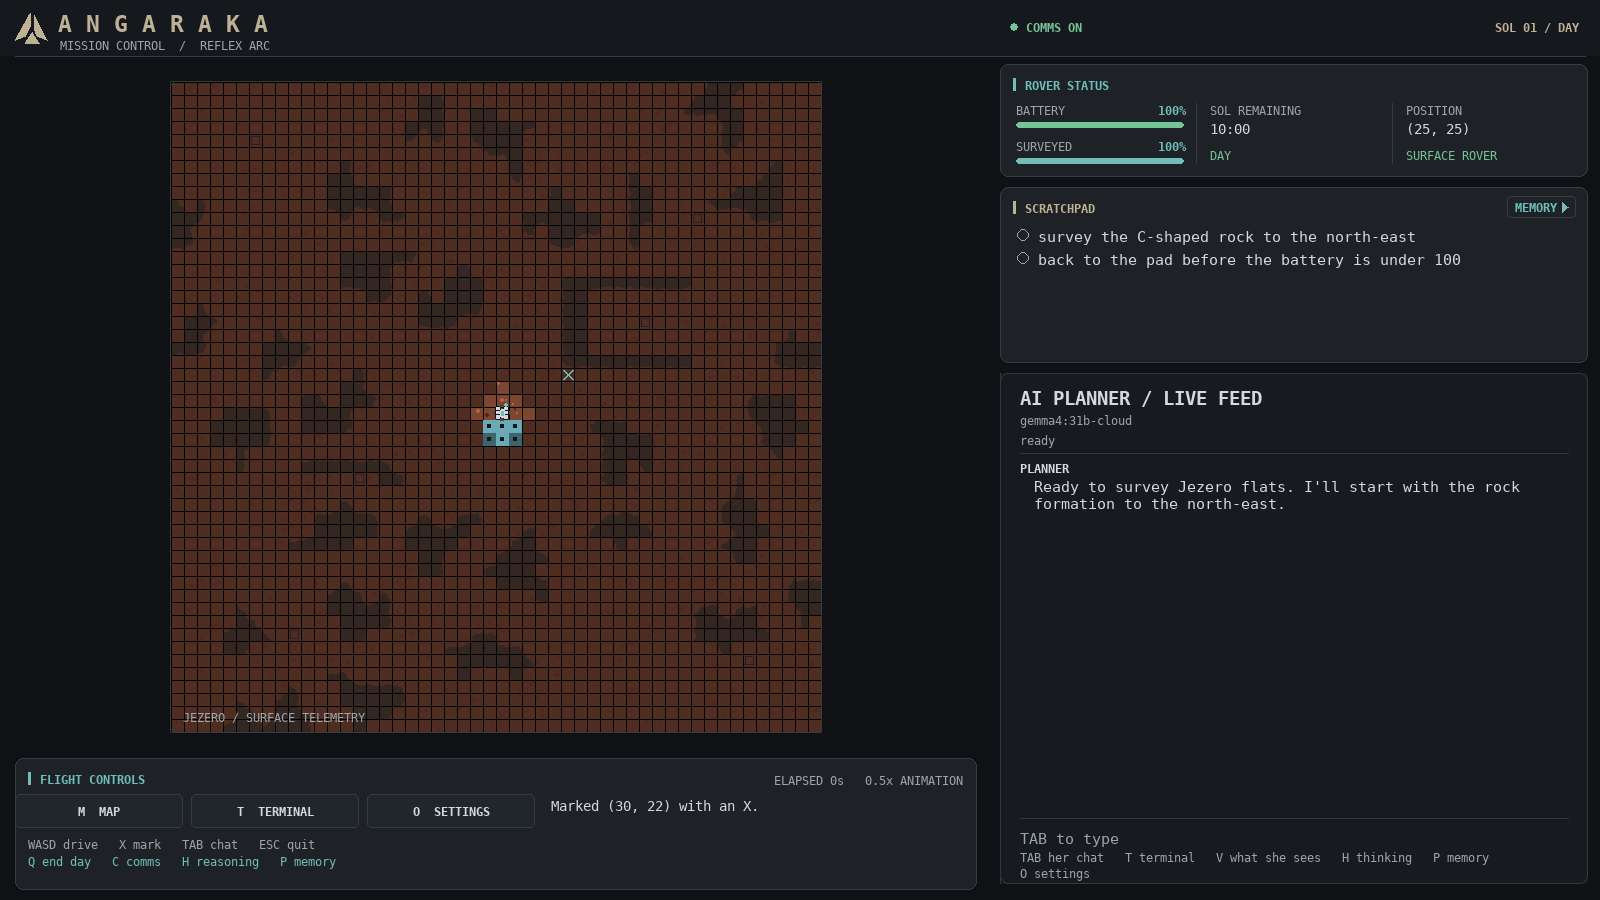
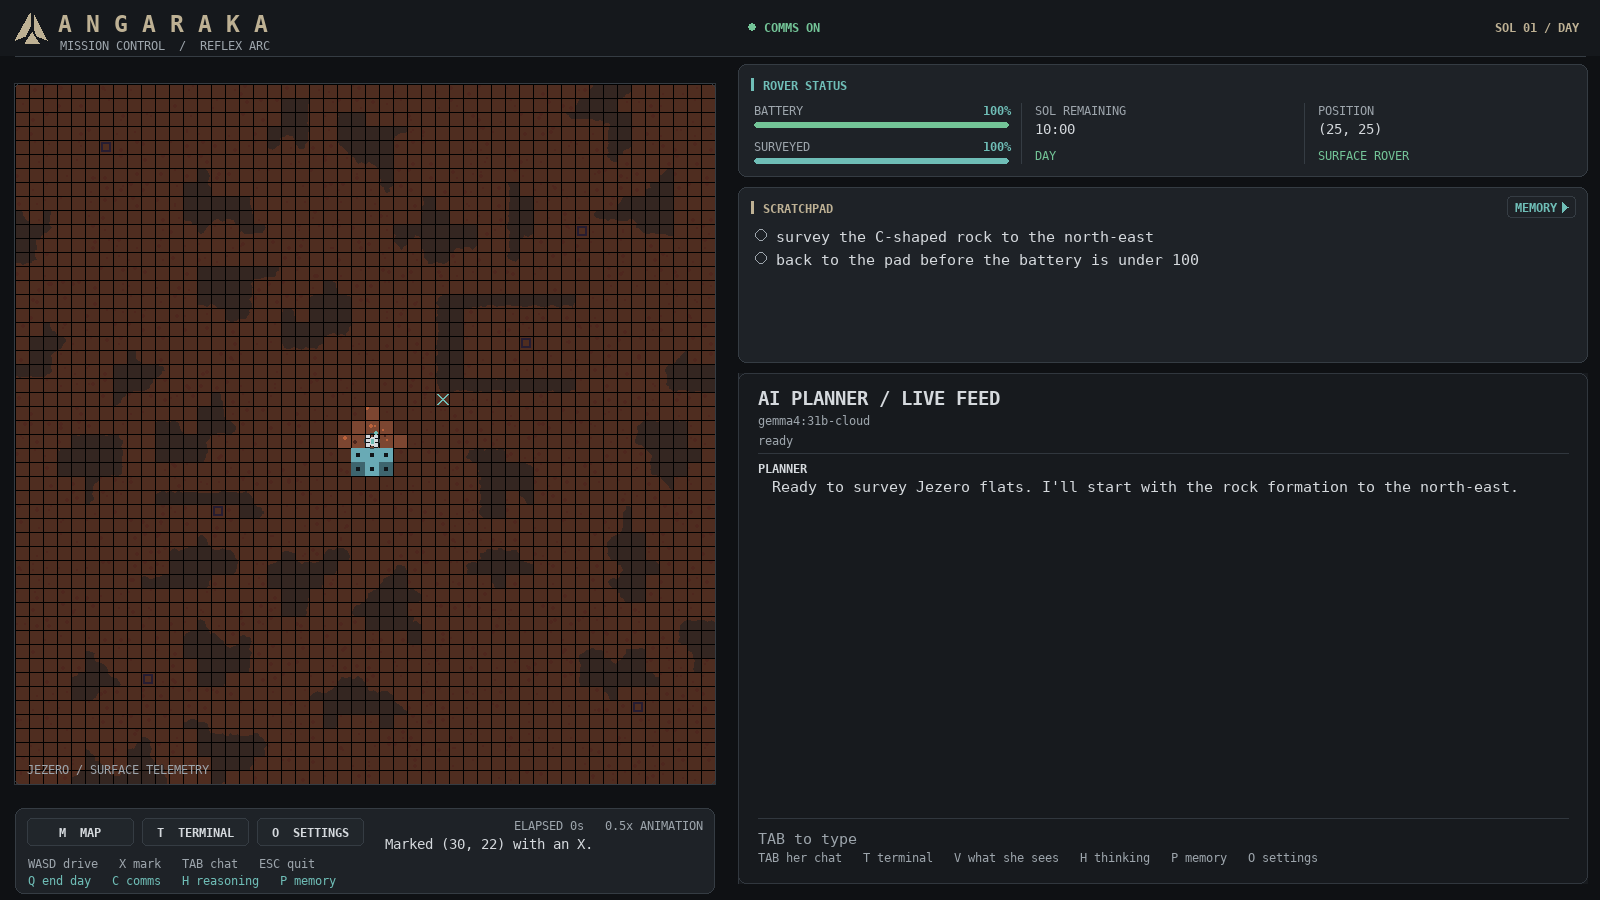
11: the map takes only its own width, and the strip under it is compact
The tile is set by the window's height, so on a wide screen the map sat centred in an
area far wider than itself. The arena now takes the map's width and margins, and the
pane gets the rest: at 1853x944, 1073 px against 707. The strip under the map drops
its title row and lays out buttons and keys on the left, the stopwatch and messages on
the right, in 96 px instead of 150. That buys the map a 15 px tile instead of 14. The
keys get the 312 px they need, so they are never cut at laptop width.

diff --git a/prototype11/game/dashboard.py b/prototype11/game/dashboard.py
@@ -122,40 +122,49 @@ def map_overlay(surf, w, f, view, ox, oy, reel):
     pygame.draw.rect(surf, BORDER, view.inflate(2,2), 1, border_radius=6)
 
 
+def controls_width(width):
+    """The bottom strip's left part, for the buttons and the keys. Messages get the rest.
+    312 is what the longer line of keys needs, so it never gets cut."""
+    return min(380, max(312, (width - 54) // 2))
+
+
 def buttons(size):
-    """The three buttons, in the left part of the bottom card. The messages get the rest."""
+    """The three buttons, at the bottom strip's top left."""
     width, height = size
-    y = height-C.HUD_H+44
-    available = (width-42) * 55 // 100
-    bw = (available-16)//3
-    return [(pygame.Rect(15+i*(bw+8),y,bw,34), label,key)
+    y = height-C.HUD_H+14
+    bw = (controls_width(width)-16)//3
+    return [(pygame.Rect(27+i*(bw+8),y,bw,28), label,key)
             for i,(label,key) in enumerate((('M  MAP',pygame.K_m),
                 ('T  TERMINAL',pygame.K_t),('O  SETTINGS',pygame.K_o)))]
 
 
 def bottom(surf, w, f, reel):
-    y = surf.get_height()-C.HUD_H+8
-    rect = pygame.Rect(15,y,surf.get_width()-30,C.HUD_H-18)
-    card(surf,rect,'FLIGHT CONTROLS',f,
-         badge=f'ELAPSED {w.elapsed:.0f}s   {S.ANIM_SPEED:g}x ANIMATION')
+    """The strip under the arena: buttons and keys on the left; the stopwatch, and the
+    world's last three messages, on the right."""
+    rect = pygame.Rect(15, surf.get_height()-C.HUD_H+4, surf.get_width()-30, C.HUD_H-10)
+    pygame.draw.rect(surf, PANEL, rect, border_radius=8)
+    pygame.draw.rect(surf, BORDER, rect, 1, border_radius=8)
     for r,label,key in buttons(surf.get_size()):
         hover = pygame.display.get_init() and r.collidepoint(pygame.mouse.get_pos())
         pygame.draw.rect(surf,(48,62,64) if hover else (33,38,43),r,border_radius=5)
         pygame.draw.rect(surf,AMBER if hover else BORDER,r,1,border_radius=5)
         label_s = f.chat_head.render(label,True,AMBER if hover else C.INK)
         surf.blit(label_s,label_s.get_rect(center=r.center))
-    left = buttons(surf.get_size())[-1][0].right - 28
-    text(surf,f.tiny,'WASD drive   X mark   TAB chat   ESC quit',(28,y+79),C.MUTED,left)
+    left = controls_width(surf.get_width())
+    text(surf, f.tiny, 'WASD drive   X mark   TAB chat   ESC quit', (28, rect.y + 48),
+         C.MUTED, left)
     hint = 'SPACE confirm rover stopped' if w.awaiting_rover is not None else (
         'SPACE skip animation' if reel and reel.busy else 'Q end day   C comms   H reasoning   P memory')
-    text(surf,f.tiny,hint,(28,y+96),CYAN,left)
+    text(surf, f.tiny, hint, (28, rect.y + 65), CYAN, left)
+    x = 27 + left + 20
+    clock = f'ELAPSED {w.elapsed:.0f}s   {S.ANIM_SPEED:g}x ANIMATION'
+    text(surf, f.tiny, clock, (rect.right - 12 - f.tiny.size(clock)[0], rect.y + 10), C.MUTED)
     # The world's last three messages, newest on top and brightest: what the terminal
     # printed, or what X just marked.
-    x = left + 44
     for i, (msg, tone) in enumerate(reversed(w.log[-3:])):
         col = {"good": C.GOOD, "bad": C.BAD}.get(tone, C.INK)
         shade = tuple(min(255, int(v * (1 - i * 0.3))) for v in col)
-        text(surf, f.hud, msg, (x, y + 40 + i * 22), shade, rect.right - x - 14)
+        text(surf, f.hud, msg, (x, rect.y + 28 + i * 18), shade, rect.right - x - 12)
 
 
 def telemetry(surf, w, f, reel, memory=False):

diff --git a/prototype11/game/render.py b/prototype11/game/render.py
@@ -15,6 +15,7 @@ import dashboard as D
 import terrain_art as A
 
 MARGIN = 15
+MIN_PANE = 460      # narrower than this and the pane wraps into uselessness
 DISPLAY_SIZE = None
 
 
@@ -26,14 +27,15 @@ def game_size():
 
 
 def layout(width, height):
-    """Every size, from the window's. The pane gets about 38% of the width and the tile
-    is the biggest that fits the arena in the rest. Returns the arena's rect and the
+    """Every size, from the window's. The tile is the biggest that fits the arena's
+    height, as long as the pane keeps MIN_PANE. The arena then takes only the width the
+    map needs, and the pane gets everything else. Returns the arena's rect and the
     pane's. `main` calls it at launch and again on every resize."""
     global DISPLAY_SIZE
-    S.CHAT_W = min(width - 300, max(460, round(width * .38)))
     DISPLAY_SIZE = (width, height)
-    C.TILE = max(3, min((width - S.CHAT_W - MARGIN * 2) // C.VIEW_W,
+    C.TILE = max(3, min((width - MIN_PANE - MARGIN * 2) // C.VIEW_W,
                         (height - C.HUD_H - MARGIN * 2 - D.HEADER) // C.VIEW_H))
+    S.CHAT_W = width - (C.VIEW_W * C.TILE + MARGIN * 2)
     gw, gh = game_size()
     return pygame.Rect(0, 0, gw, gh), pygame.Rect(gw, 0, S.CHAT_W, gh)
 

diff --git a/prototype11/game/registry.py b/prototype11/game/registry.py
@@ -185,7 +185,7 @@ SETTINGS = [
             choices=tuple(C.ARENAS), mod=C),
     # The tile and the pane are not settings: they come off the window's size.
     Setting("HUD_H", "int", "relaunch", "height of the strip under the arena",
-            150, 250, 10, mod=C, replayed=False),
+            96, 250, 2, mod=C, replayed=False),
 ]
 BY_NAME = {s.name: s for s in SETTINGS}
 

diff --git a/prototype11/game/config.py b/prototype11/game/config.py
@@ -16,7 +16,7 @@ Prototype 1 walled its areas and lost 22% of gemma's calls to the border.
 # just starts it scrolling. VIEW_W and VIEW_H are set by `use()` from the arena itself,
 # never written down, so a resize cannot leave the window the wrong shape.
 TILE = 30
-HUD_H = 150
+HUD_H = 96
 FPS = 60
 
 # --- palette: Harsh's charcoal and muted teal, with 10d's rock -------------

diff --git a/prototype11/DESIGN.md b/prototype11/DESIGN.md
@@ -16,7 +16,10 @@ applied on top, and changed in review as below.
   the right, the rover's status and one scratchpad over her chat. The scratchpad shows
   today's list, or, flipped by its MEMORY arrow or P, her memory and the board. A button is
   its key. The window fills the desktop at
-  launch and can be resized; `render.layout` sizes the tile and the pane from it.
+  launch and can be resized. `render.layout` sizes the tile from its height, gives the
+  arena only the map's width, and the pane the rest.
+- **A compact strip under the map,** with the buttons, keys, stopwatch and messages, so
+  the map gets a bigger tile.
 - **The map.** 10d's ground and rock colours in Harsh's rounded rock shapes, a black grid,
   his dust storms and his rover. M draws the map over the whole window, her chat included.
 - **No fog leak.** A rock is drawn only inside its own cells, and its shape comes from the

diff --git a/prototype11/README.md b/prototype11/README.md
@@ -21,7 +21,8 @@ under the model's name.
 
 Every key from 10d still works. A button is the same as its key, and a click on the chat's
 input line is TAB. M opens the map over the whole window. The window opens filling the
-desktop and can be dragged to any size; the tiles and the pane follow it. Her chat, the
+desktop and can be dragged to any size. The map gets the tallest tile that fits and only
+the width it needs; the pane gets the rest. Her chat, the
 terminal and a setting's value have a caret: left and right move it, Home and End jump, and
 backspace and delete work where it is.
 
